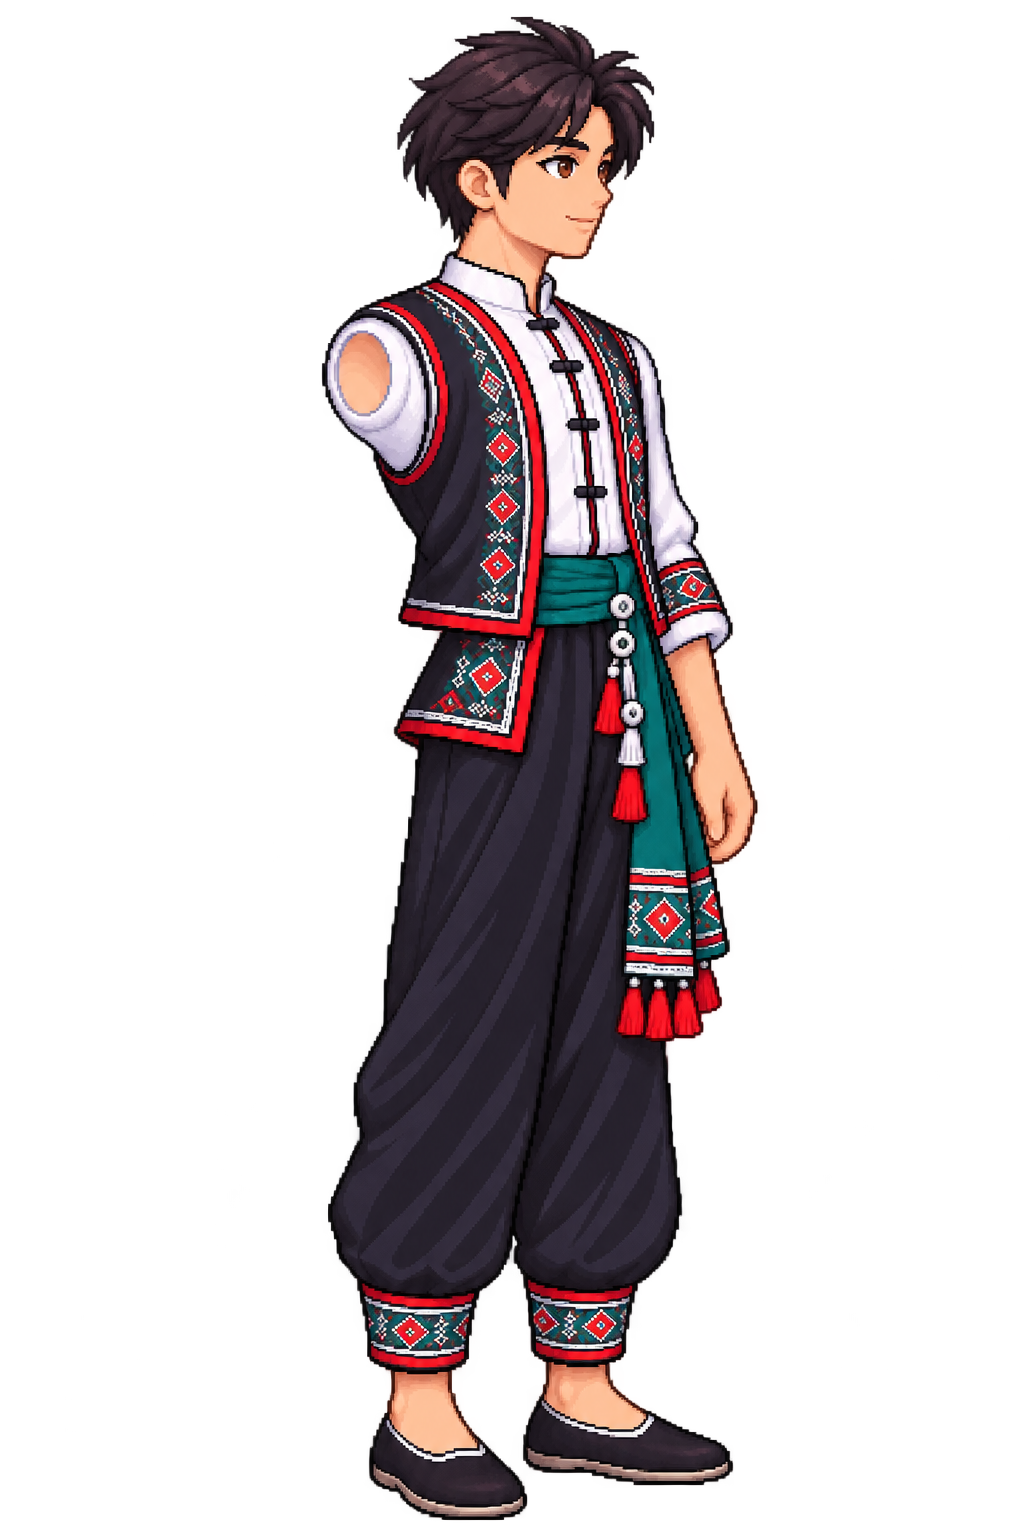
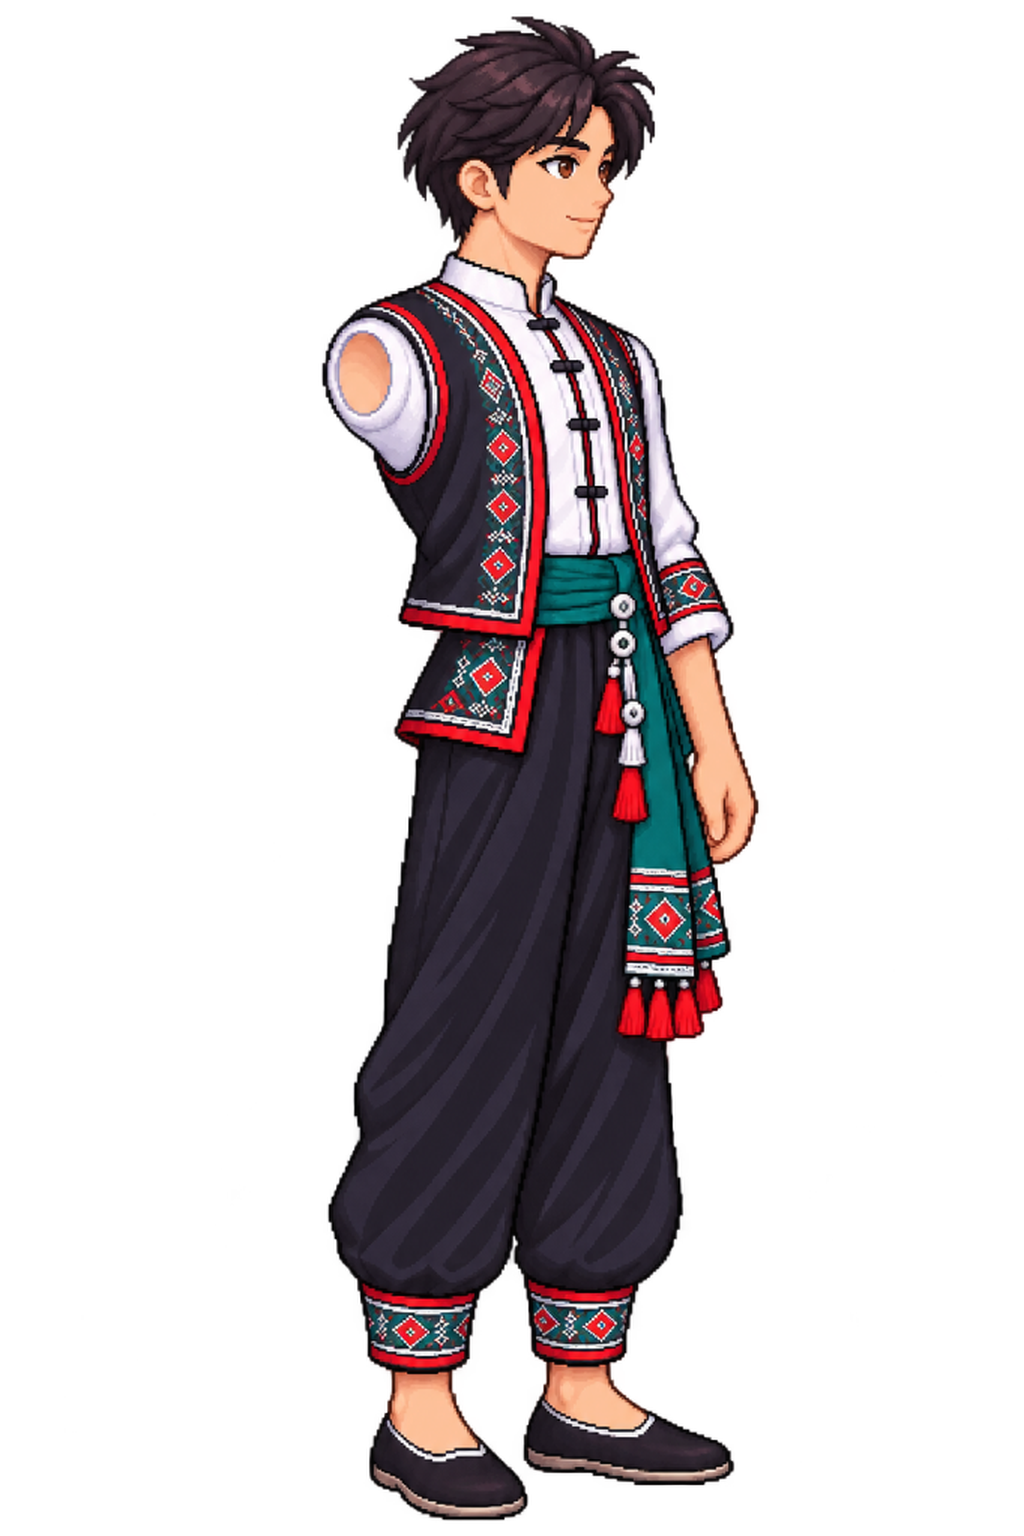
feat: cap nhat 4 asset goc chinh xac cua user va can chinh khop noi theo dung o tron

diff --git a/character-config.js b/character-config.js
@@ -102,7 +102,7 @@ const CHARACTER_CONFIG = (() => {
       description: 'Trang phục áo chàm nam tính cộc tay hoa văn thổ cẩm đỏ xanh, sải tay dài.',
       scale: 0.21,
       standingAnchorX: 220,
-      drawForearmFirst: true, // Cẳng tay trần xoay tự nhiên bên dưới miệng ống tay áo bồng
+      drawForearmFirst: false,
       sprites: {
         body: 'assets/character/skins/nam_tay_moi/body.png',
         upper_arm: 'assets/character/skins/nam_tay_moi/upper_arm_unified.png',
@@ -110,24 +110,24 @@ const CHARACTER_CONFIG = (() => {
         hand: 'assets/character/skins/nam_tay_moi/hand.png'
       },
       anchors: {
-        footAnchor: { x: 470, y: 1515 },
-        shoulderJoint: { x: 390, y: 348 }
+        footAnchor: { x: 470, y: 1520 },
+        shoulderJoint: { x: 363, y: 379 } // Tâm chính xác của ô tròn trên vai
       },
       kinematics: {
-        scaleUpper: 1.0, // Tỷ lệ chuẩn 1:1 theo ảnh crop gốc
+        scaleUpper: 1.0,
         scaleFore: 1.0,
         scaleHand: 1.0,
         upperArm: {
-          shoulderPivot: { x: 105, y: 35 },
-          elbowJoint: { x: 75, y: 355 }
+          shoulderPivot: { x: 78, y: 66 },  // Khớp vai trên bắp tay nối đúng vào tâm ô tròn
+          elbowJoint: { x: 78, y: 258 }     // Khớp cùi chỏ đáy bắp tay
         },
         forearm: {
-          elbowPivot: { x: 75, y: 48 },
-          wristJoint: { x: 77, y: 170 }
+          elbowPivot: { x: 78, y: 0 },      // Khớp cùi chỏ đỉnh cẳng tay
+          wristJoint: { x: 113, y: 218 }    // Khớp cổ tay đáy cẳng tay
         },
         hand: {
-          wristPivot: { x: 50, y: 10 },
-          gripTunnel: { x: 50, y: 55 }
+          wristPivot: { x: 36, y: 4 },      // Khớp cổ tay trên bàn tay
+          gripTunnel: { x: 45, y: 60 }      // Điểm xỏ dây quả còn
         },
         idleHandOffset: { x: 0, y: 0 }
       },
